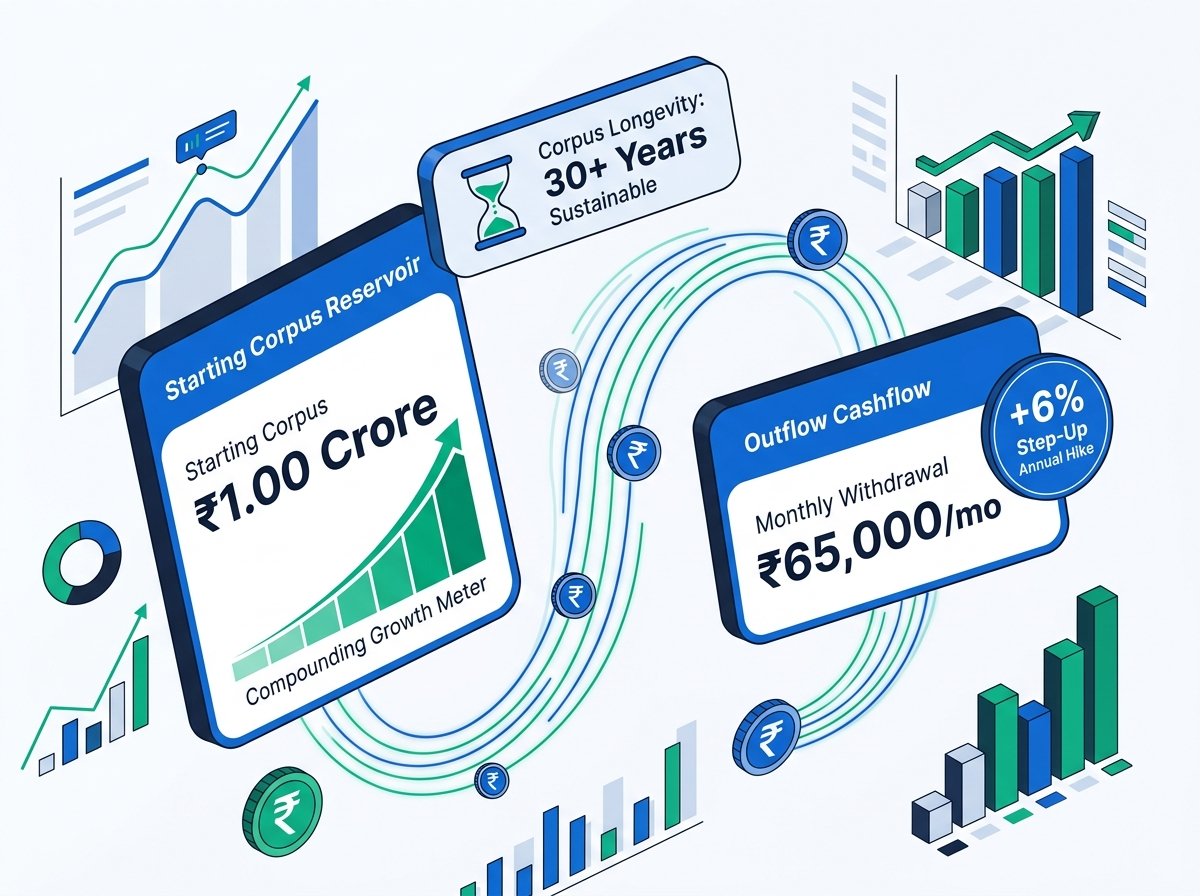
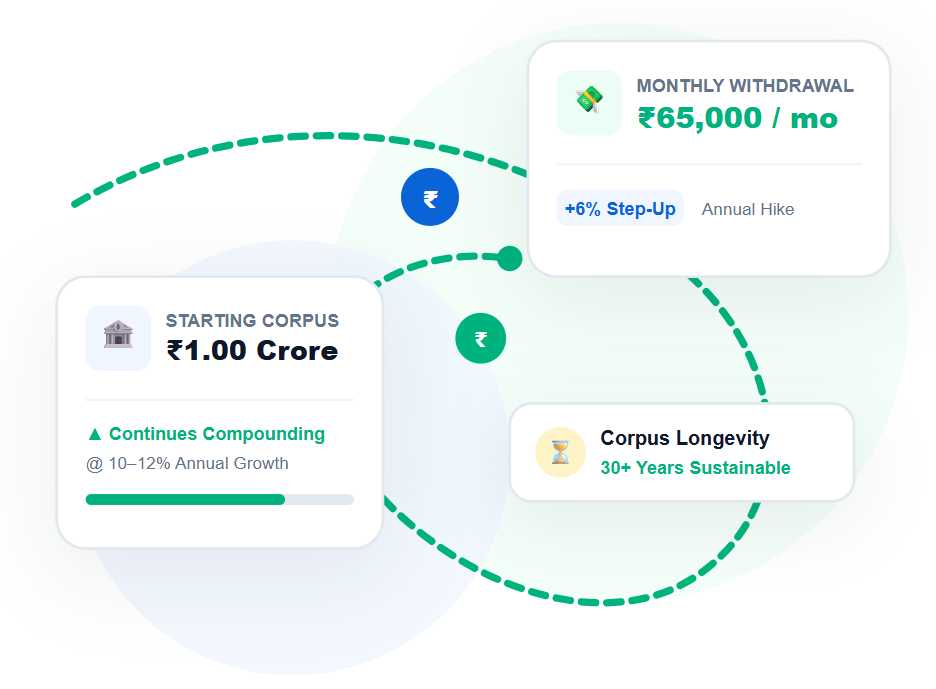
Align Section 6 Tools Carousel on SWP page to match SIP Calculator page exactly

diff --git a/swp-calculator.html b/swp-calculator.html
@@ -905,107 +905,102 @@
         </div>
     </section>
 
-    <!-- SECTION 6: EXPLORE THE FINNOMY FINANCIAL SUITE (STATIC RESPONSIVE GRID - REFINEMENT 2) -->
+    <!-- SECTION 6: AUTO-ROTATING CIRCULAR TOOLS CAROUSEL -->
     <section class="landing-section-full section-grey" id="related-tools">
         <div class="section-container">
             <div class="section-header">
                 <span class="section-tag">Ecosystem Suite</span>
                 <h2 class="section-main-title">Explore the FinNomy Financial Suite</h2>
-                <p class="section-main-subtitle">Complement your retirement and wealth planning with our suite of free, private, in-browser financial calculators and intelligence analyzers.</p>
+                <p class="section-main-subtitle">Complement your wealth planning with our suite of free, private, in-browser financial calculators and analyzers.</p>
             </div>
 
-            <div class="tools-grid-suite">
-                
-                <!-- Tool 1: SIP Calculator -->
-                <a href="sip-calculator.html" class="suite-tool-card">
-                    <div>
-                        <div class="suite-tool-icon">🌱</div>
-                        <h3 class="suite-tool-title">SIP Calculator</h3>
-                        <p class="suite-tool-desc">Step-Up SIP &amp; Inflation Wealth Planner: Calculate exponential mutual fund compounding and goal shortfall deficits.</p>
-                    </div>
-                    <span class="suite-tool-cta">Calculate SIP &rarr;</span>
-                </a>
+            <div class="carousel-outer-wrapper">
+                <!-- Carousel Viewport -->
+                <div class="carousel-viewport">
+                    <div class="carousel-track" id="toolsCarouselTrack">
+                        
+                        <!-- Tool 1: SIP Calculator -->
+                        <a href="sip-calculator.html" class="carousel-card">
+                            <div>
+                                <div class="carousel-card-icon">🌱</div>
+                                <h3 class="carousel-card-title">SIP Calculator</h3>
+                                <p class="carousel-card-desc">Step-Up SIP &amp; Inflation Wealth Planner: Calculate exponential mutual fund compounding and goal shortfall deficits.</p>
+                            </div>
+                            <span class="carousel-card-cta">Calculate SIP &rarr;</span>
+                        </a>
 
-                <!-- Tool 2: SWP Calculator (Current Page) -->
-                <a href="swp-calculator.html" class="suite-tool-card" style="border-color: var(--green-border); background: #F0FDF4;">
-                    <div>
-                        <div class="suite-tool-icon">💪</div>
-                        <h3 class="suite-tool-title">SWP Calculator</h3>
-                        <p class="suite-tool-desc">Step-Up SWP &amp; Capital Preservation: Plan tax-efficient regular monthly income and long-term capital sustainability.</p>
-                    </div>
-                    <span class="suite-tool-cta" style="color: var(--green);">Explore SWP &rarr;</span>
-                </a>
+                        <!-- Tool 2: Retirement Planner -->
+                        <a href="calculators.html?calc=retirement" class="carousel-card">
+                            <div>
+                                <div class="carousel-card-icon">🏖</div>
+                                <h3 class="carousel-card-title">Retirement Calculator</h3>
+                                <p class="carousel-card-desc">FIRE Corpus &amp; Post-Retirement Inflation: Determine your exact required nest egg corpus for lifelong financial freedom.</p>
+                            </div>
+                            <span class="carousel-card-cta">Plan Retirement &rarr;</span>
+                        </a>
 
-                <!-- Tool 3: Retirement Planner -->
-                <a href="calculators.html?calc=retirement" class="suite-tool-card">
-                    <div>
-                        <div class="suite-tool-icon">🏖</div>
-                        <h3 class="suite-tool-title">Retirement Calculator</h3>
-                        <p class="suite-tool-desc">FIRE Corpus &amp; Post-Retirement Inflation: Determine your exact required nest egg corpus for lifelong financial freedom.</p>
-                    </div>
-                    <span class="suite-tool-cta">Plan Retirement &rarr;</span>
-                </a>
+                        <!-- Tool 3: Loan Prepayment Calculator -->
+                        <a href="calculators.html?calc=loan" class="carousel-card">
+                            <div>
+                                <div class="carousel-card-icon">📉</div>
+                                <h3 class="carousel-card-title">Loan Prepayment Calculator</h3>
+                                <p class="carousel-card-desc">Interest Saved &amp; Tenure Reduction: See the massive interest savings achieved through systematic early prepayments.</p>
+                            </div>
+                            <span class="carousel-card-cta">Calculate Savings &rarr;</span>
+                        </a>
 
-                <!-- Tool 4: Loan Prepayment Calculator -->
-                <a href="calculators.html?calc=loan" class="suite-tool-card">
-                    <div>
-                        <div class="suite-tool-icon">📉</div>
-                        <h3 class="suite-tool-title">Loan Prepayment Calculator</h3>
-                        <p class="suite-tool-desc">Interest Saved &amp; Tenure Reduction: See the massive interest savings achieved through systematic early prepayments.</p>
-                    </div>
-                    <span class="suite-tool-cta">Calculate Savings &rarr;</span>
-                </a>
+                        <!-- Tool 4: Financial Health Score -->
+                        <a href="calculators.html?calc=fhs" class="carousel-card">
+                            <div>
+                                <div class="carousel-card-icon">🩺</div>
+                                <h3 class="carousel-card-title">Financial Health Score</h3>
+                                <p class="carousel-card-desc">11-Pillar Financial Diagnostic: Comprehensive wellness check across savings, debt, liquidity, and goal preparedness.</p>
+                            </div>
+                            <span class="carousel-card-cta">Check Score &rarr;</span>
+                        </a>
 
-                <!-- Tool 5: Financial Health Score -->
-                <a href="calculators.html?calc=fhs" class="suite-tool-card">
-                    <div>
-                        <div class="suite-tool-icon">🩺</div>
-                        <h3 class="suite-tool-title">Financial Health Score</h3>
-                        <p class="suite-tool-desc">11-Pillar Financial Diagnostic: Comprehensive wellness check across savings, debt, liquidity, and goal preparedness.</p>
-                    </div>
-                    <span class="suite-tool-cta">Check Score &rarr;</span>
-                </a>
+                        <!-- Tool 5: Common Financial Mistakes -->
+                        <a href="calculators.html?calc=cfm" class="carousel-card">
+                            <div>
+                                <div class="carousel-card-icon">⚠</div>
+                                <h3 class="carousel-card-title">Financial Mistakes Calculator</h3>
+                                <p class="carousel-card-desc">Daily Leaks &amp; Delay Costs: Uncover the true exponential opportunity cost of delay and under-invested cash.</p>
+                            </div>
+                            <span class="carousel-card-cta">Explore Cost &rarr;</span>
+                        </a>
 
-                <!-- Tool 6: Common Financial Mistakes -->
-                <a href="calculators.html?calc=cfm" class="suite-tool-card">
-                    <div>
-                        <div class="suite-tool-icon">⚠</div>
-                        <h3 class="suite-tool-title">Financial Mistakes Calculator</h3>
-                        <p class="suite-tool-desc">Daily Leaks &amp; Delay Costs: Uncover the true exponential opportunity cost of delay and under-invested cash.</p>
-                    </div>
-                    <span class="suite-tool-cta">Explore Cost &rarr;</span>
-                </a>
+                        <!-- Tool 6: Multi-Goal Wealth Planner -->
+                        <a href="calculators.html?calc=mgse" class="carousel-card">
+                            <div>
+                                <div class="carousel-card-icon">🎯</div>
+                                <h3 class="carousel-card-title">Multi-Goal Wealth Planner</h3>
+                                <p class="carousel-card-desc">Consolidated Life Goals &amp; Cash Flow: Model, prioritize, and allocate systematic cash flows across multiple milestones.</p>
+                            </div>
+                            <span class="carousel-card-cta">Plan Multi-Goals &rarr;</span>
+                        </a>
 
-                <!-- Tool 7: Multi-Goal Wealth Planner -->
-                <a href="calculators.html?calc=mgse" class="suite-tool-card">
-                    <div>
-                        <div class="suite-tool-icon">🎯</div>
-                        <h3 class="suite-tool-title">Multi-Goal Wealth Planner</h3>
-                        <p class="suite-tool-desc">Consolidated Life Goals &amp; Cash Flow: Model, prioritize, and allocate systematic cash flows across multiple milestones.</p>
-                    </div>
-                    <span class="suite-tool-cta">Plan Multi-Goals &rarr;</span>
-                </a>
+                        <!-- Tool 7: Bank Statement Analyzer -->
+                        <a href="finnomy-bank-analyzer.html" class="carousel-card">
+                            <div>
+                                <div class="carousel-card-icon">📊</div>
+                                <h3 class="carousel-card-title">Bank Statement Analyzer</h3>
+                                <p class="carousel-card-desc">100% In-Browser Spending Intelligence: Private on-device statement parsing for instant income, expense, and cash flow insights.</p>
+                            </div>
+                            <span class="carousel-card-cta">Analyze Statement &rarr;</span>
+                        </a>
 
-                <!-- Tool 8: Bank Statement Analyzer -->
-                <a href="finnomy-bank-analyzer.html" class="suite-tool-card">
-                    <div>
-                        <div class="suite-tool-icon">📊</div>
-                        <h3 class="suite-tool-title">Bank Statement Analyzer</h3>
-                        <p class="suite-tool-desc">100% In-Browser Spending Intelligence: Private on-device statement parsing for instant income, expense, and cash flow insights.</p>
-                    </div>
-                    <span class="suite-tool-cta">Analyze Statement &rarr;</span>
-                </a>
+                        <!-- Tool 8: Income Tax Computation Generator -->
+                        <a href="finnomy-itr-computation.html" class="carousel-card">
+                            <div>
+                                <div class="carousel-card-icon">🧾</div>
+                                <h3 class="carousel-card-title">ITR Tax Computation</h3>
+                                <p class="carousel-card-desc">Instant ITR-V to PDF Summary: Convert ITR acknowledgements or tax JSON into certified, bank-ready computation sheets in seconds.</p>
+                            </div>
+                            <span class="carousel-card-cta">Generate ITR Summary &rarr;</span>
+                        </a>
 
-                <!-- Tool 9: Income Tax Computation Generator -->
-                <a href="finnomy-itr-computation.html" class="suite-tool-card">
-                    <div>
-                        <div class="suite-tool-icon">🧾</div>
-                        <h3 class="suite-tool-title">ITR Tax Computation</h3>
-                        <p class="suite-tool-desc">Instant ITR-V to PDF Summary: Convert ITR acknowledgements or tax JSON into certified, bank-ready computation sheets in seconds.</p>
                     </div>
-                    <span class="suite-tool-cta">Generate ITR Summary &rarr;</span>
-                </a>
-
+                </div>
             </div>
         </div>
     </section>

diff --git a/styles/swp-calculator.css b/styles/swp-calculator.css
@@ -1166,69 +1166,118 @@ input:checked + .slider:before {
 }
 
 /* =========================================================================
-   6. SECTION 6: TOOLS ECOSYSTEM - STATIC RESPONSIVE GRID (REFINEMENT 2)
+   6. SECTION 6: AUTO-ROTATING INFINITE CAROUSEL (3.5 CARDS VISIBLE - IDENTICAL TO SIP PAGE)
    ========================================================================= */
-.tools-grid-suite {
-  display: grid;
-  grid-template-columns: repeat(auto-fit, minmax(260px, 1fr));
-  gap: 20px;
+.carousel-outer-wrapper {
+  position: relative;
+  max-width: 1200px;
+  margin: 20px auto 0;
+  padding: 0 10px;
+}
+
+.carousel-viewport {
+  overflow: hidden;
   width: 100%;
 }
 
-.suite-tool-card {
+.carousel-track {
+  display: flex;
+  gap: 20px;
+  overflow-x: auto;
+  scroll-behavior: smooth;
+  padding: 12px 4px 18px 4px;
+  scrollbar-width: thin;
+  scrollbar-color: #CBD5E1 #F1F5F9;
+  -webkit-overflow-scrolling: touch;
+}
+
+.carousel-track::-webkit-scrollbar {
+  height: 6px;
+  display: block;
+}
+
+.carousel-track::-webkit-scrollbar-track {
+  background: #F1F5F9;
+  border-radius: 10px;
+}
+
+.carousel-track::-webkit-scrollbar-thumb {
+  background: #CBD5E1;
+  border-radius: 10px;
+  transition: background 0.2s ease;
+}
+
+.carousel-track::-webkit-scrollbar-thumb:hover {
+  background: #94A3B8;
+}
+
+.carousel-card {
+  flex: 0 0 calc((100% - 60px) / 3.5);
+  min-width: 270px;
+  max-width: 320px;
   background: #FFFFFF;
   border: 1px solid var(--border);
   border-radius: var(--radius-lg);
   padding: 24px 20px;
+  text-decoration: none;
+  color: inherit;
   display: flex;
   flex-direction: column;
   justify-content: space-between;
-  text-decoration: none;
-  color: inherit;
-  box-shadow: var(--shadow-sm);
+  box-shadow: 0 4px 12px rgba(15, 23, 42, 0.05);
   transition: transform 0.25s ease, box-shadow 0.25s ease, border-color 0.25s ease;
+  user-select: none;
 }
 
-.suite-tool-card:hover {
-  transform: translateY(-4px);
-  border-color: var(--blue-border);
-  box-shadow: var(--shadow-md);
+.carousel-card:hover {
+  transform: translateY(-5px);
+  box-shadow: 0 12px 30px -4px rgba(11, 99, 216, 0.14);
+  border-color: var(--blue);
 }
 
-.suite-tool-icon {
-  font-size: 28px;
+.carousel-card-icon {
+  font-size: 32px;
   margin-bottom: 12px;
-  line-height: 1;
+  width: 52px;
+  height: 52px;
+  background: var(--blue-light);
+  border-radius: 14px;
+  display: flex;
+  align-items: center;
+  justify-content: center;
 }
 
-.suite-tool-title {
+.carousel-card:nth-child(2n) .carousel-card-icon {
+  background: var(--green-light);
+}
+
+.carousel-card-title {
   font-size: 16px;
   font-weight: 700;
   color: var(--navy);
-  margin: 0 0 8px 0;
+  margin: 0 0 8px;
 }
 
-.suite-tool-desc {
+.carousel-card-desc {
   font-size: 13px;
   color: var(--grey);
-  margin: 0 0 16px 0;
+  margin: 0 0 16px;
   line-height: 1.5;
   flex-grow: 1;
 }
 
-.suite-tool-cta {
+.carousel-card-cta {
   font-size: 13px;
   font-weight: 700;
   color: var(--blue);
   display: inline-flex;
   align-items: center;
   gap: 4px;
-  transition: color 0.2s ease, transform 0.2s ease;
+  transition: gap 0.2s;
 }
 
-.suite-tool-card:hover .suite-tool-cta {
-  color: var(--blue-hover);
-  transform: translateX(2px);
+.carousel-card:hover .carousel-card-cta {
+  gap: 8px;
 }
 
 /* =========================================================================

diff --git a/js/swp-calculator.js b/js/swp-calculator.js
@@ -708,12 +708,56 @@ document.addEventListener('DOMContentLoaded', () => {
         }
     });
 
+    // Auto-Rotating Tools Carousel (1.5s interval identical to SIP calculator)
+    initToolsCarousel();
+
     // Randomize initial fact
     displayRandomSwpFact();
 
     // Initial Calculation
     calculateSWP();
 });
+
+// Auto-Rotating Infinite Tools Carousel (1.5s Interval)
+function initToolsCarousel() {
+    const track = document.getElementById('toolsCarouselTrack');
+    if (!track) return;
+
+    let autoScrollInterval = null;
+    const scrollDelay = 1500; // 1.5 seconds
+
+    function stepNext() {
+        const firstCard = track.querySelector('.carousel-card');
+        const cardWidth = firstCard ? (firstCard.offsetWidth + 20) : 300;
+        const maxScroll = track.scrollWidth - track.clientWidth;
+
+        if (track.scrollLeft >= maxScroll - 5) {
+            track.scrollTo({ left: 0, behavior: 'smooth' });
+        } else {
+            track.scrollBy({ left: cardWidth, behavior: 'smooth' });
+        }
+    }
+
+    function startTimer() {
+        if (!autoScrollInterval) {
+            autoScrollInterval = setInterval(stepNext, scrollDelay);
+        }
+    }
+
+    function stopTimer() {
+        if (autoScrollInterval) {
+            clearInterval(autoScrollInterval);
+            autoScrollInterval = null;
+        }
+    }
+
+    startTimer();
+
+    track.addEventListener('mouseenter', stopTimer);
+    track.addEventListener('mouseleave', startTimer);
+    track.addEventListener('touchstart', stopTimer, { passive: true });
+    track.addEventListener('touchend', startTimer, { passive: true });
+}
 
 // Global Send Dashboard Report for SWP Page
 window.sendDashboardReport = function(calcTypeRaw) {
